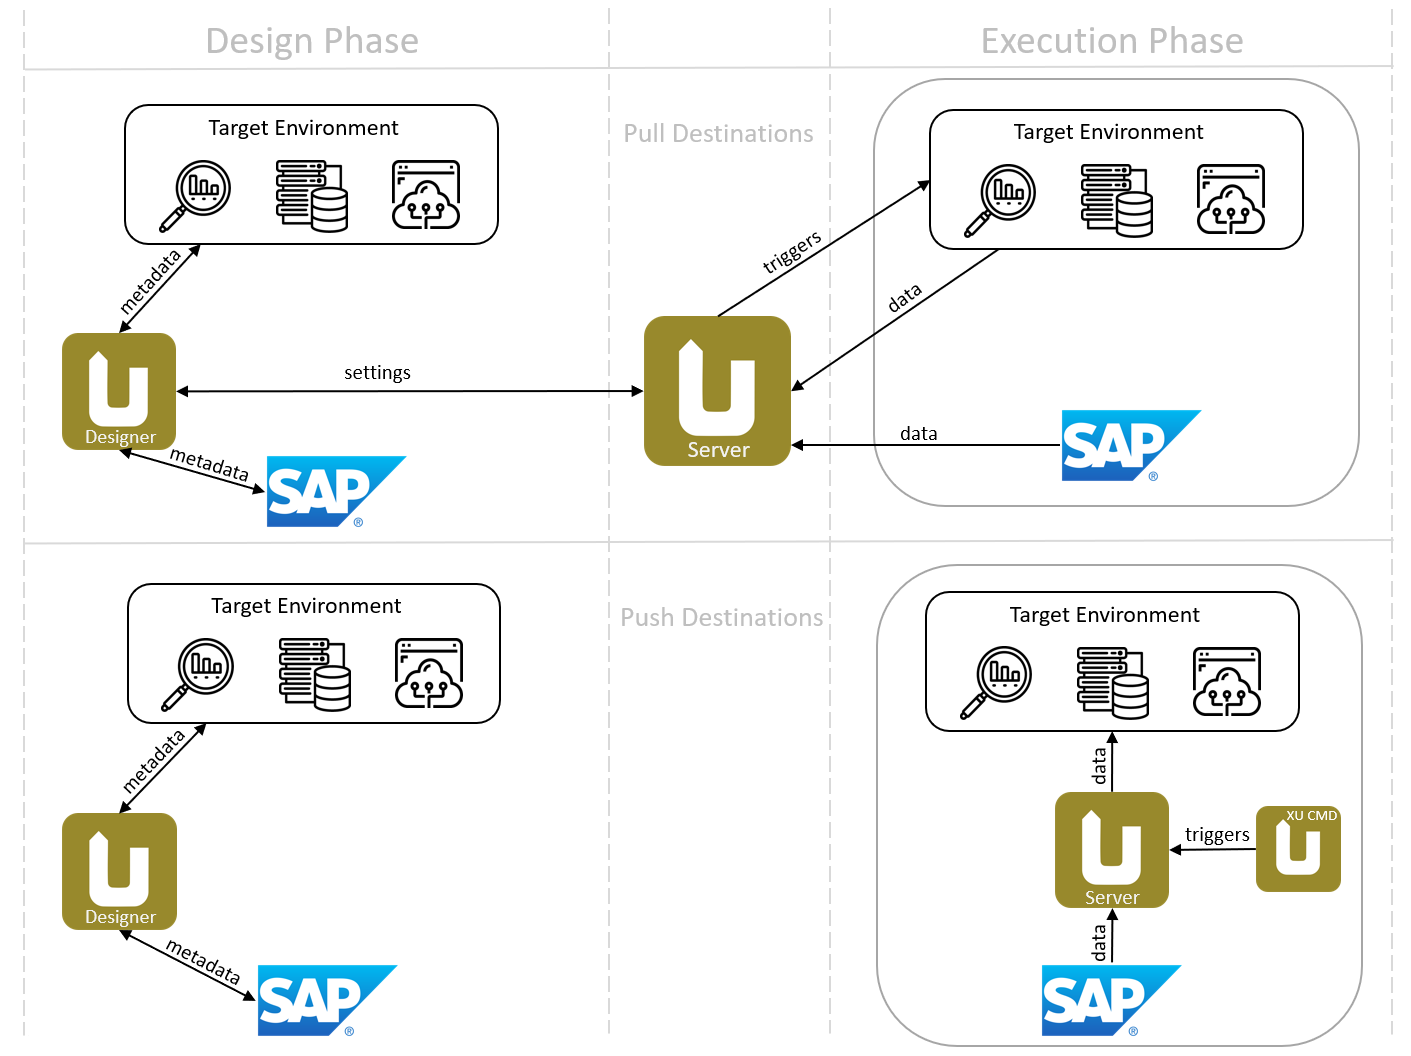
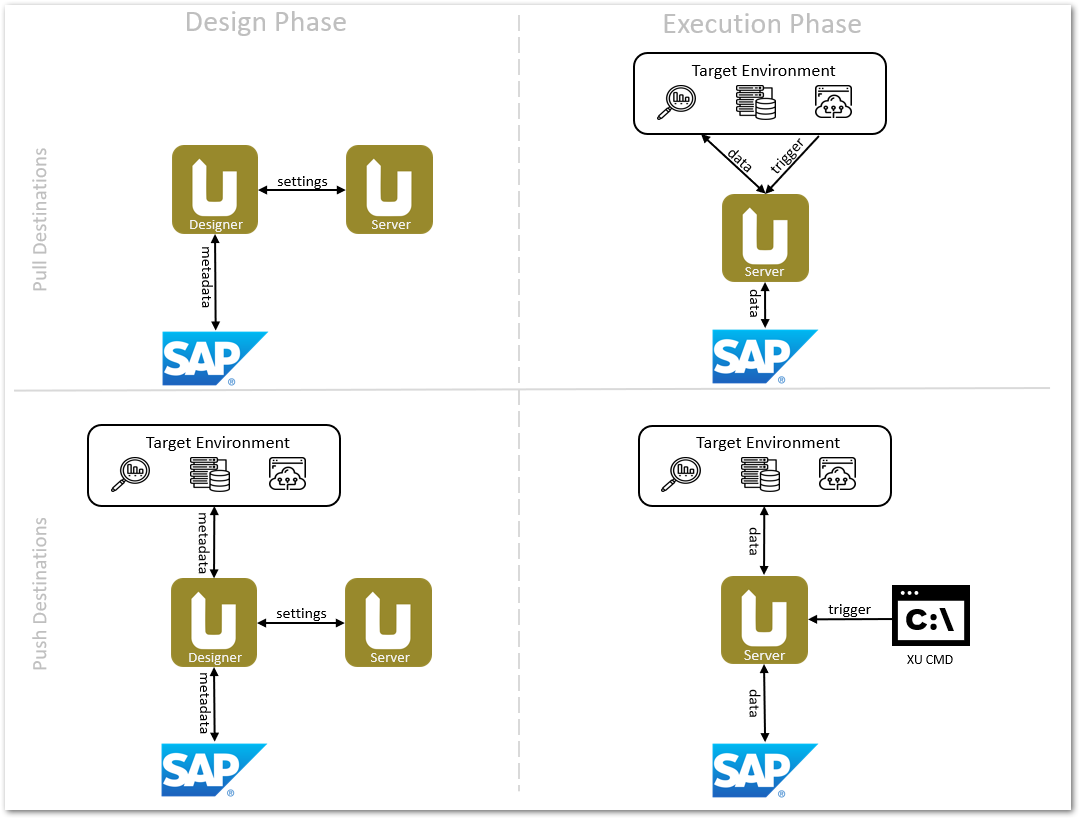
xu, img; architecture, index

diff --git a/content/_de/xtract-universal/index.md b/content/_de/xtract-universal/index.md
@@ -17,60 +17,44 @@ Willkommen in der Online Help für Xtract Universal.
 Xtract Universal ist ein Werkzeug zur Datenextraktion aus SAP in verschiedene Zielumgebungen. Die extrahierten Daten können dann weiterverarbeitet werden, z.B. 
 im Rahmen von Business Intelligence, Datenintegration und Datenanalyse. 
 
-
-![XU-architecture](/img/content/xu/theobald-software-graphic.png){:class="img-responsive" width="600px"} 
-
-
 ### Verfügbare Komponenten
 
-In der unteren Übersicht finden Sie, welche Komponente für die Datenextraktion aus einem SAP-System verwendet werden können. 
+In der folgenen Übersicht finden Sie, welche Komponente für die Datenextraktion aus einem SAP-System verwendet werden können. 
 
 #### Extraktionstypen
 Xtract Universal bietet einen Satz von neun Extraktionstypen, um eine Reihe von Anforderungen der SAP-Datenextraktion abzudecken.
 
 Je nach Art des SAP-Quellsystems gibt es unterschiedliche Szenarien beim Einsatz der Komponenten:
 
+- [**BAPI**](./bapis-and-function-modules) greift auf BAPIs und RFC-Funktionsmodule zu.
+- [**BW Cube**](./bw-infocubes-and-bex-queries) extrahiert Dateb aus SAP BW InfoCubes und BEx Queries.
+- [**BW Hierarchy**](../bw-hierarchies) extrahiert Hierarchien aus SAP BW / BI Systemen.
+- [**DeltaQ**](./datasource-deltaq) extrahiert DataSources (OLTP) und Extraktoren aus dem ERP und ECC System.
+- [**ODP**](./odp) extrahiert Daten über das SAP Operational Data Provisioning (ODP) Framework.
+- [**Open Hub Services (OHS)**](../bw-open-hub-services) extrahiert InfoSpokes und OHS Destinationen. <!--Frage: kann man destinations extrahieren?-->
+- [**Query**](./sap-queries) extrahiert ERP-Queries. **Hinweis: nicht die BEx-Queries von BW Cube**.
+- [**Report**](./abap-reports) extrahiert ABAP Reports.
+- [**Table**](./table)  extrahiert Daten aus SAP-Tabellen und Views; ermöglicht das Zusammenführen mehrerer Tabellen auf der SAP-Seite.
+- [**Table Join**](./table-join) -  ermöglicht das Joinen von mehreren SAP-Tabellen. Der Join-Prozess findet vollständig innerhalb des SAP-Systems statt, ohne dass einzelne Tabellen heruntergeladen werden müssen.ermöglicht das Joinen von mehreren SAP-Tabellen. Der Join-Prozess findet vollständig innerhalb des SAP-Systems statt, ohne dass einzelne Tabellen heruntergeladen werden müssen.<br>
+**Hinweis: veraltete Komponente! Verwenden Sie die Table-Komponente**
 
-| Komponente   | ERP | BW |
+
+| Extraktionstyp   | ERP | BW |
 |-------------|:---:|:--:|
-| Table       | X   | X  |
 | BAPI        | X   | X  |
-| Query       | X   |    |
-| ABAP Report | X   |    |
-| DeltaQ      | X   | X  |
 | BW Cube     |     | X  |
-| Hierarchy   |     | X  |
-| OHS         |     | X  |
+| BW Hierarchy   |     | X  |
+| DeltaQ      | X   | X  |
 | ODP         | X   | X |
+| OHS         |     | X  |
+| Query       | X   |    |
+| Report | X   |    |
+| Table       | X   | X  |
+
 
 {: .box-note }
 **Hinweis:** Weitere Szenarien und Kombinationen sind möglich.
 
-### Extraktion aus ERP- / ECC-Systemen
-
-
-- [**Table**](./table)  extrahiert Daten aus SAP-Tabellen und Views; ermöglicht das Zusammenführen mehrerer Tabellen auf der SAP-Seite.
-
-- [**Table Join**](./table-join) -  ermöglicht das Joinen von mehreren SAP-Tabellen. Der Join-Prozess findet vollständig innerhalb des SAP-Systems statt, ohne dass einzelne Tabellen heruntergeladen werden müssen.ermöglicht das Joinen von mehreren SAP-Tabellen. Der Join-Prozess findet vollständig innerhalb des SAP-Systems statt, ohne dass einzelne Tabellen heruntergeladen werden müssen.<br>
-**Hinweis: veraltete Komponente! Verwenden Sie die Table-Komponente**
-
-- [**BAPI**](./bapis-and-function-modules) greift auf BAPIs und RFC-Funktionsmodule zu.
-
-- [**Query**](./sap-queries) extrahiert ERP-Queries. **Hinweis: nicht die BEx-Queries von BW Cube**.
-
-- [**Report**](./abap-reports) extrahiert ABAP Reports.
-
-- [**DeltaQ**](./datasource-deltaq) extrahiert DataSources (OLTP) und Extraktoren aus dem ERP und ECC System.
-
-
-### Extraktion aus BW-Systemen
-- [**BW Cube**](./bw-infocubes-and-bex-queries) extrahiert Dateb aus SAP BW InfoCubes und BEx Queries.
-
-- [**BW Hierarchy**](../bw-hierarchies) extrahiert Hierarchien aus SAP BW / BI Systemen.
-
-- [**Open Hub Services (OHS)**](../bw-open-hub-services) extrahiert InfoSpokes und OHS Destinationen. <!--Frage: kann man destinations extrahieren?-->
-
-- [**DeltaQ**](../datasource-deltaq) extrahiert Export DataSources.
 
 Weitere Informationen zu den Funktionen von Xtract Universal finden Sie in den folgenden Abschnitten:
 

diff --git a/content/_en/xtract-is/index.md b/content/_en/xtract-is/index.md
@@ -11,33 +11,61 @@ weight: 1
 lang: en_GB
 old_url: /Xtract-IS-EN/
 ---
-### Architecture
-Xtract IS is a plug-in for the SQL Server Integration Services (SSIS). Xtract IS cannot be used outside SSIS,
-which is why an SQL Server license is required, even if the SQL Server database is not used. 
+Welcome...
 
-The Xtract IS component suite offers you a total of 10 different modules for the SQL Server integration services.
-Xtract IS component suite provides you with the complete range of data extraction for different SAP objects.
+Xtract IS is a plug-in for the [SQL Server Integration Services (SSIS)](https://docs.microsoft.com/en-us/sql/integration-services/sql-server-integration-services).
+Xtract IS allows extracting data from SAP systems and writing data to SAP systems.
+
+### Available Components
+
+The Xtract IS offers you a total of 10 different Data Flow components for the SQL Server Integration Services.
 
 ![XIS-Architecture](/img/content/xis/architectures_xis_neu.png){:class="img-responsive"}
 
-### Using the components
-In the overview below you can see for which components read (R) and write (W) rights are available. 
 
-The required license for using the different components in SAP ERP and SAP BW is also stated in the table.
+The overview below depicts the types of the Data Flow components.
 
-| Component   | ERP | BW | Enterprise <br> License | Ultimate <br> License |
-|-------------|:-----:|:----:|:--------------------:|:------------------:|
-| Table       | R   | R  | X                  | X                |
-| Table Join  | R   | R  |                    | X                |
-| BAPI        | R/W  | R/W | X                  | X                |
-| Query       | R   |    | X                  | X                |
-| ABAP Report | R   |    |                    | X                |
-| DeltaQ      | R   | R  |                    | X                |
-| BW Cube     |     | R  | X                  | X                |
-| Hierarchy   |     | R  |                    | X                |
-| OHS         |     | R  |                    | X                |
-| BW Loader   |     | W  |                    | X                | 
-| ODP | R | R |  | X |
+| Name   | Data Flow Component Type | 
+|-------------|:-----:|
+| Table       | Source   |
+| BAPI        | Transformation  | 
+| Query       | Source   | 
+| ABAP Report | Source   | 
+| DeltaQ      | Source   | 
+| BW Cube     | Source   |  
+| Hierarchy   | Source |
+| OHS         | Source  |  
+| BW Loader   |  Destination   |
+| ODP         | Source |
+
+<!--Tabelle alphabetisch sortieren und Xtract vor jedem Namen einfügen-->
+
+#### Extraction Types
+
+- [**Table**](./table) extracts data from SAP tables and views; allows joining several tables on the SAP side.
+
+- [**Table Join**](./table-join) -  allows to join several SAP tables. The Join-process takes place entirely within the SAP system without downloading single tables.<br>
+**Note: obsolete component! Use Table component instead.**
+
+- [**BAPI**](./bapis-and-function-modules) accesses BAPIs and RFC function modules.
+
+- [**Query**](./sap-queries) extracts ERP queries. **Note: not BEx queries supplied by BW Cube**.
+
+- [**Report**](./abap-reports) extracts ABAP Reports.
+
+- [**DeltaQ**](./datasource-deltaq) extracts DataSources (OLTP) and extractors from ERP and ECC systems.
+
+- [**BW Cube**](./bw-infocubes-and-bex-queries) extracts data from SAP BW InfoCubes and BEx Queries.
+
+- [**BW Hierarchy**](../bw-hierarchies) extracts Hierarchies from an SAP BW / BI system.
+
+- [**Open Hub Services (OHS)**](../bw-open-hub-services) extracts InfoSpokes and OHS destinations. <!--Frage: kann man destinations extrahieren?-->
+
+- [**DeltaQ**](../datasource-deltaq) extracts Export DataSources.
+
+- [**BW Loader**](../bw-loader) loads data into SAP BW systems.
+
+
 
 The online help for Xtract IS consists of the following sections:
 

diff --git a/content/_en/xtract-universal/index.md b/content/_en/xtract-universal/index.md
@@ -29,50 +29,35 @@ The following overview shows, which components are available to extract data fro
 
 Xtract Universal offers a set of nine extraction types to cover a range of demands of SAP data extraction.
 
-Common scenarios when using the components depending on the type of the SAP source system:
-
-| Component   | ERP/ ECC | BW |
-|-------------|-----|----|
-| Table       | X   | X  |
-| BAPI        | X   | X  |
-| Query       | X   |    |
-| ABAP Report | X   |    |
-| DeltaQ      | X   | X  |
-| BW Cube     |     | X  |
-| Hierarchy   |     | X  |
-| OHS         |     | X  |
-| ODP         | X   | X  |
-
-{: .box-note }
-**Note:** Further scenarios and combinations are possible.
-
-
-### Extraction from ERP / ECC systems
-
-
+- [**BAPI**](./bapis-and-function-modules) accesses BAPIs and RFC function modules.
+- [**BW Cube**](./bw-infocubes-and-bex-queries) extracts data from SAP BW InfoCubes and BEx Queries.
+- [**BW Hierarchy**](../bw-hierarchies) extracts Hierarchies from an SAP BW / BI system.
+- [**DeltaQ**](./datasource-deltaq) extracts DataSources (OLTP) and extractors from ERP and ECC systems.
+- [**ODP**](./odp) extracts data via the SAP Operational Data Provisioning (ODP) framework.
+- [**Open Hub Services (OHS)**](../bw-open-hub-services) extracts InfoSpokes and OHS destinations. <!--Frage: kann man destinations extrahieren?-->
+- [**Query**](./sap-queries) extracts ERP queries. **Note: not BEx queries supplied by BW Cube**.
+- [**Report**](./abap-reports) extracts ABAP Reports.
 - [**Table**](./table) extracts data from SAP tables and views; allows joining several tables on the SAP side.
-
 - [**Table Join**](./table-join) -  allows to join several SAP tables. The Join-process takes place entirely within the SAP system without downloading single tables.<br>
 **Note: obsolete component! Use Table component instead.**
 
-- [**BAPI**](./bapis-and-function-modules) accesses BAPIs and RFC function modules.
 
-- [**Query**](./sap-queries) extracts ERP queries. **Note: not BEx queries supplied by BW Cube**.
+Common scenarios when using the components depending on the type of the SAP source system:
 
-- [**Report**](./abap-reports) extracts ABAP Reports.
+| Extraction Type   | ERP/ ECC | BW |
+|-------------|-----|----|
+| BAPI        | X   | X  |
+| BW Cube     |     | X  |
+| DeltaQ      | X   | X  |
+| BW Hierarchy   |     | X  |
+| ODP         | X   | X |
+| OHS         |     | X  |
+| Query       | X   |    |
+| Report | X   |    |
+| Table       | X   | X  |
 
-- [**DeltaQ**](./datasource-deltaq) extracts DataSources (OLTP) and extractors from ERP and ECC systems.
-
-### Extraction from BW systems
-
-
-- [**BW Cube**](./bw-infocubes-and-bex-queries) extracts data from SAP BW InfoCubes and BEx Queries.
-
-- [**BW Hierarchy**](../bw-hierarchies) extracts Hierarchies from an SAP BW / BI system.
-
-- [**Open Hub Services (OHS)**](../bw-open-hub-services) extracts InfoSpokes and OHS destinations. <!--Frage: kann man destinations extrahieren?-->
-
-- [**DeltaQ**](../datasource-deltaq) extracts Export DataSources.
+{: .box-note }
+**Note:** Further scenarios and combinations are possible.
 
 More information on functions of Xtract Universal is provided in the following sections:
 

diff --git a/content/_de/xtract-universal/einfuehrung.md b/content/_de/xtract-universal/einfuehrung.md
@@ -1,7 +1,7 @@
 ---
 ref: xtract-universal-02
 layout: page
-title: Einführung
+title: Einführung in Xtract Universal
 description: Einführung
 product: xtract-universal
 parent: xtract-universal
@@ -15,6 +15,19 @@ old_url: /Xtract-Universal-DE/default.aspx?pageid=einfuehrung
 ### Grundfunktionalität - Architektur
 
 Extraktionen sind die Hauptentitäten in Xtract Universal. Eine [Extraktion] (./erste-schritte/eine-neue-extraktion-anlegen) ist eine Kombination aus einer Quelle (SAP-System), 
-einer Ziel (z.B. SQL-Server) und einen definierten Extraktionstyp (z.B. Xtract Table).
+einer Destination (Xtract Unversal Seite) / Zielumgebung (z.B. SQL-Server) (Kundenseitig) und einen definierten Extraktionstyp (z.B. Xtract Table).
+
+
+Eine Quelle stellt eine [Verbindung zu einem SAP-System](./einfuehrung/sap-verbindungen-anlegen) dar. Eine [Destination](../xu-destinations) repräsentiert eine Verbindung zu einer Zielumgebung.
+Die Verwendung von Xtract Universal umfasst zwei Hauptphasen:
+- Entwurfsphase
+- Ausführungsphase
+
+![xu-arch-01](/img/content/xu/xu-arch-01.png){:class="img-responsive"}
+
+Während der Designphase kann der Benutzer Extraktionen, Quellen und Destinationen erstellen und modifizieren; und die [Servereinstellungen](../server/server-settings) mit Hilfe des [Designers](../erste-schritte/designer-overview) anpassen. 
+
+Während der Ausführungsphase kann der Benutzer die in der Designphase entworfenen Extraktionen ausführen. Abhängig von der Destination kann eine Ausführung entweder durch das [XU-Kommandozeilen-Tool - xu.exe oder xu.elf](../fortgeschrittene-techniken/extraktion_einplanen) oder durch den Datenkonsumenten ausgelöst werden. Mehr Details dazu im Abschnitt [Pull- und Push-Destinationen](../xu-destinationen#pull--und-push-destinationen). 
+
 
 {% include _content/table-of-contents.html parent=page.childidentifier collection=site.de %}

diff --git a/content/_en/xtract-is/requirements-and-installation/installing-the-license.md b/content/_en/xtract-is/requirements-and-installation/installing-the-license.md
@@ -11,6 +11,28 @@ lang: en_GB
 old_url: /Xtract-IS-EN/default.aspx?pageid=installing-the-license
 progressstate: 5
 ---
+
+
+<!---Xtract IS cannot be used outside SSIS,
+which is why an SQL Server license is required, even if the SQL Server database is not used.-->
+
+<!---
+| Component   | ERP | BW | Enterprise <br> License | Ultimate <br> License |
+|-------------|:-----:|:----:|:--------------------:|:------------------:|
+| Table       | R   | R  | X                  | X                |
+| BAPI        | R/W  | R/W | X                  | X                |
+| Query       | R   |    | X                  | X                |
+| ABAP Report | R   |    |                    | X                |
+| DeltaQ      | R   | R  |                    | X                |
+| BW Cube     |     | R  | X                  | X                |
+| Hierarchy   |     | R  |                    | X                |
+| OHS         |     | R  |                    | X                |
+| BW Loader   |     | W  |                    | X                | 
+| ODP         | R | R |  | X |
+-->
+
+
+
 ### About licensing concept of Xtract IS
 The following graphic shows the on which workstations the installation of Xtract IS with a valid license required.   
 ![client_Server_architecture_xis_final](/img/content/xis/client_server_xis.png)<br>

diff --git a/content/_en/xtract-universal/introduction.md b/content/_en/xtract-universal/introduction.md
@@ -1,7 +1,7 @@
 ---
 ref: xtract-universal-02
 layout: page
-title: Introduction
+title: Introduction to Xtract Universal
 description: Introduction
 product: xtract-universal
 parent: xtract-universal
@@ -22,10 +22,10 @@ A source represents a [connection to an SAP System](./sap-connection). A [destin
 
 
 Using Xtract Universal contains two main phases:
-- Design phases
+- Design phase
 - Execution phase
 
-![xu-arch-01](/img/content/xu/arch.png){:class="img-responsive"}
+![xu-arch-01](/img/content/xu/xu-arch-01.png){:class="img-responsive"}
 
 During the design phase the user can create and modify extractions, sources and destinations; and alter the [server settings](../server/server-settings) with the help of the [Designer](../getting-started-xu/designer-overview). 
 

diff --git a/content/_en/xtract-is/requirements-and-installation.md b/content/_en/xtract-is/requirements-and-installation.md
@@ -11,8 +11,10 @@ weight: 2
 lang: en_GB
 old_url: /Xtract-IS-EN/default.aspx?pageid=requirements-and-installation
 ---
+<!--- --->
+
 Xtract IS is based on the client-server architecture. Which is why, it is necessary to install Xtract IS both on the deployment environment (SSIS Server) and on the development environment (Visual Studio).  
-![xis_client_server_generell](/img/content/xis/client_server_architektur_xis_generell.png){:class="img-responsive"}
+
 
 For more information, see the following sections that inculde all information about the requirements and the installation process.
 

diff --git a/content/_en/xtract-is/requirements-and-installation/installation.md b/content/_en/xtract-is/requirements-and-installation/installation.md
@@ -10,6 +10,13 @@ weight: 2
 lang: en_GB
 old_url: /Xtract-IS-EN/default.aspx?pageid=installation
 ---
+
+Xtract IS is required when developing and running SSIS packages. Make sure to install Xtract IS on development machine running Visual Studio / SQL Sever Data Tools and on the machine running the SQL server, where the packages are 
+deployed to and later on ran on.
+<!---text anpassen --->
+![xis_client_server_generell](/img/content/xis/client_server_architektur_xis_generell.png){:class="img-responsive"}
+
+
 ### Prerequisites
 
 {: .box-note }

diff --git a/_includes/_content/de/about-this-online-help/about-help-content-ts.md b/_includes/_content/de/about-this-online-help/about-help-content-ts.md
@@ -38,7 +38,7 @@ Empfehlung | Grün | Theobald Software Empfehlungen und Best Practice-Methoden.
 Beispiel:
 
 {: .box-warning } 
-<**>**Warnung!** Single Sign-On Verfügbarkeit</**>
+**Warnung! Single Sign-On Verfügbarkeit**
 Der ABAP-Anwendungsserver muss auf einem Windows-Betriebssystem und SNC mit Kerberos-Verschlüsselung auf SAP laufen.
 
 
